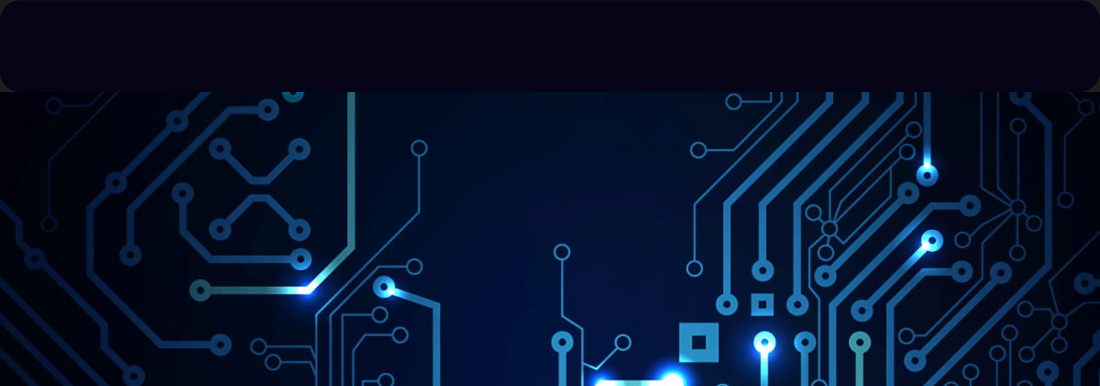
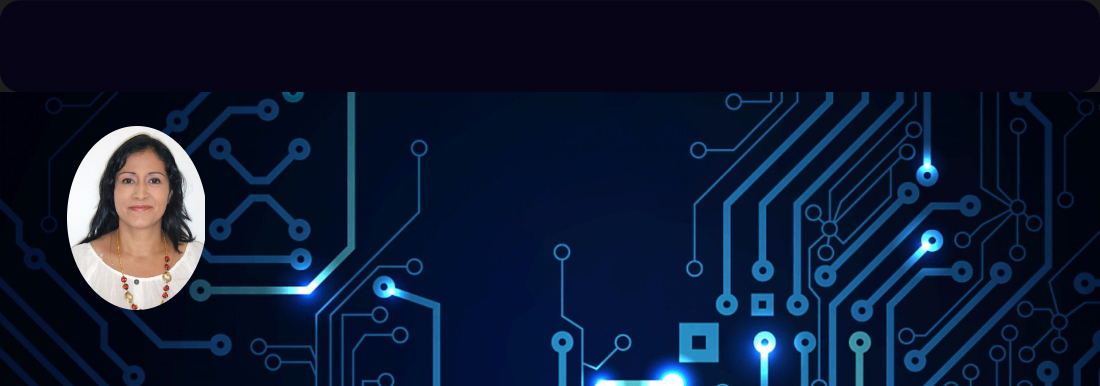
perfil

Changed region(s): [[0.0618, 0.3109, 0.1855, 0.8083]]

diff --git a/FrontEnd/src/app/components/logo-ap/logo-ap.component.css b/FrontEnd/src/app/components/logo-ap/logo-ap.component.css
@@ -9,12 +9,13 @@
 }
 
 #logoAP{
-    width: 50px;
+    width: 150px;
     border-radius: 50%;
-    height: 20;
+    height: 75;
+    width: 100px;
 }
 img {
-        width: 50px;
+        width: 100px;
         height: 70px;
 }
 

diff --git a/FrontEnd/src/app/components/header/header.component.css b/FrontEnd/src/app/components/header/header.component.css
@@ -1,4 +1,6 @@
 div{
     background-color: #07050e;
+    height: 600px;
+    overflow: hidden;
 }
 

diff --git a/FrontEnd/src/app/components/banner/banner.component.html b/FrontEnd/src/app/components/banner/banner.component.html
@@ -1,3 +1,4 @@
 <div>
     <img src="../../../assets/Banner22.jpg" alt="">
+    
     </div>
